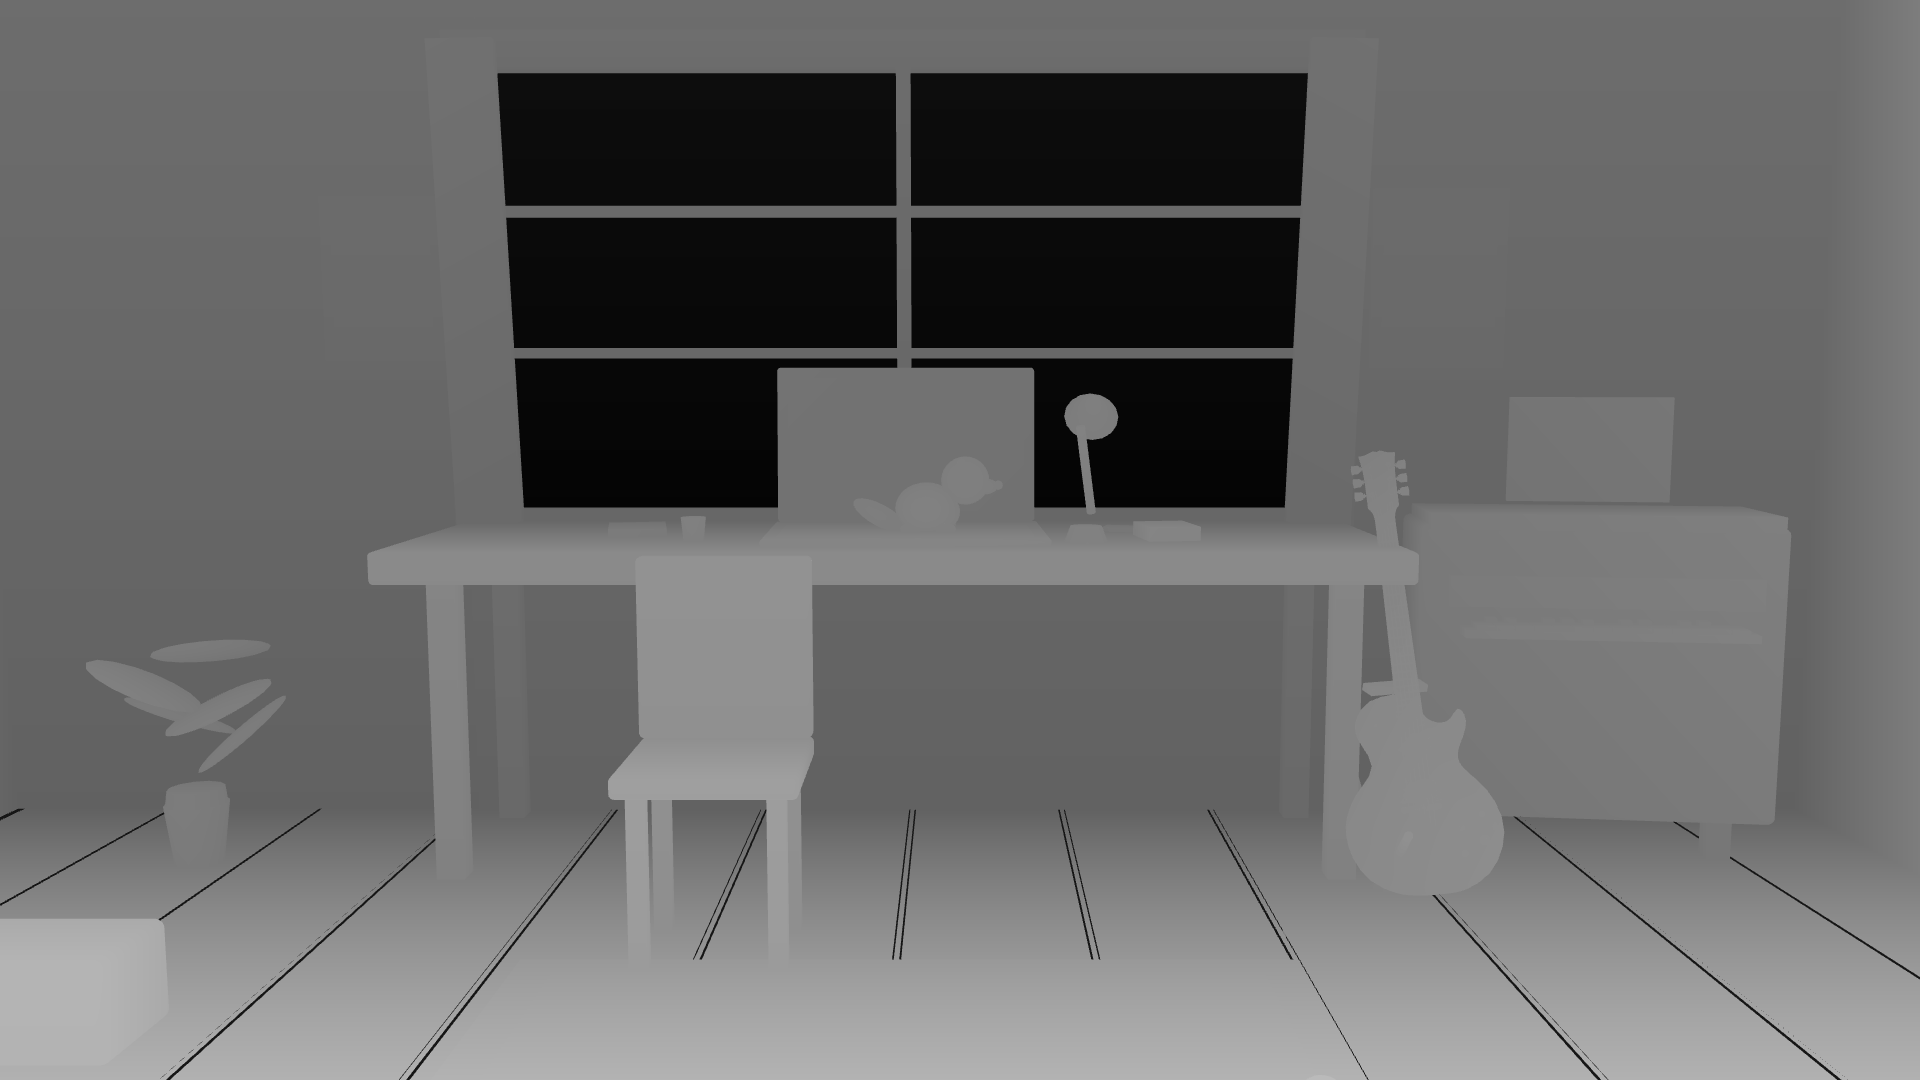
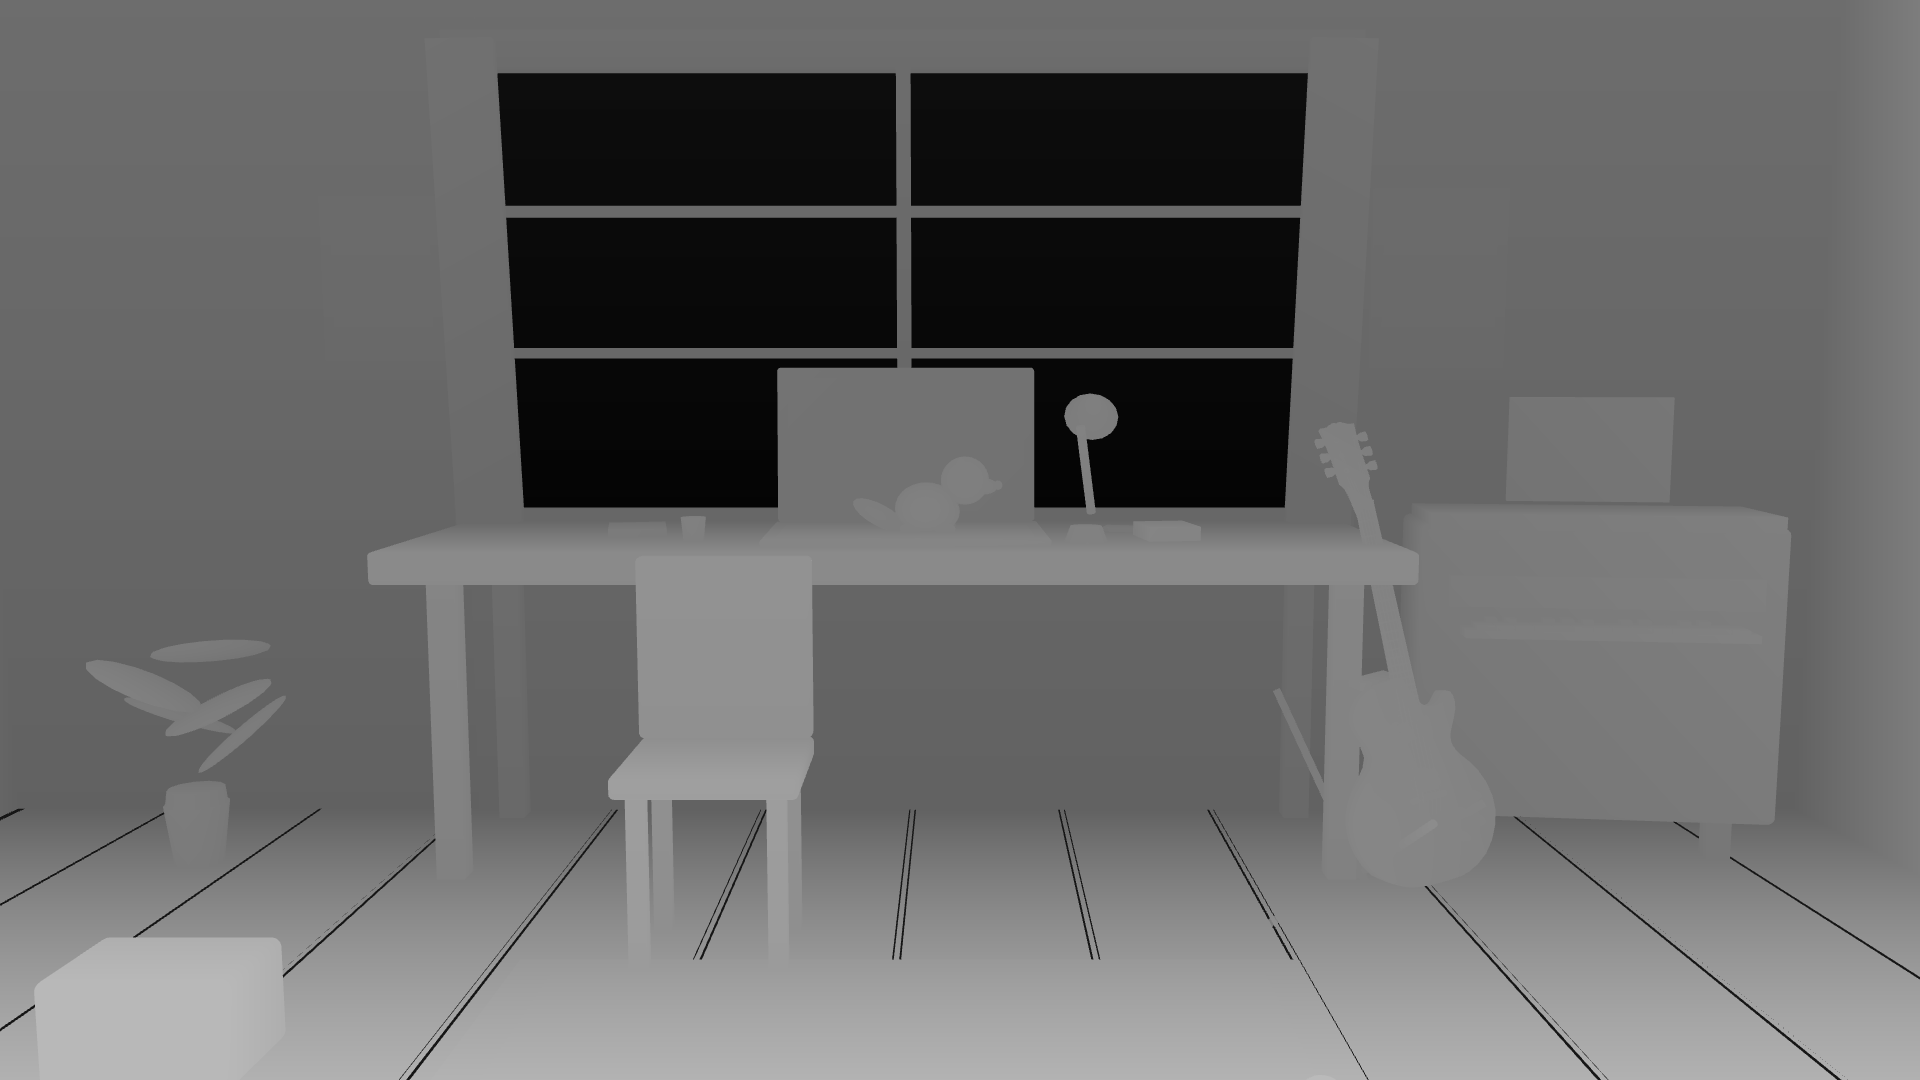
Recadre la Les Paul en 3/4 et corrige les hotspots
La guitare est tournée pour montrer le volume, le coffre rentre
dans le cadre, et le clic laptop n'est plus mangé par la loutre.

diff --git a/src/den/hotspots.js b/src/den/hotspots.js
@@ -1,29 +1,29 @@
 export const HOTSPOTS = [
   { id: 'window', hint: 'window', x: 0.29, y: 0.12, w: 0.36, h: 0.3, zoom: 0.42 },
   { id: 'diploma', hint: 'diploma', panel: 'education', x: 0.162, y: 0.18, w: 0.075, h: 0.15, zoom: 0.55 },
-  { id: 'laptop', hint: 'desk', panel: 'projects', x: 0.386, y: 0.325, w: 0.17, h: 0.19, zoom: 0.72 },
+  { id: 'otter', hint: 'otter', x: 0.447, y: 0.45, w: 0.04, h: 0.055, zoom: 0.3 },
+  { id: 'laptop', hint: 'desk', panel: 'projects', x: 0.396, y: 0.366, w: 0.15, h: 0.11, zoom: 0.72 },
   { id: 'guitar', hint: 'guitar', href: 'https://samuelogulluk.github.io/lutra/', x: 0.67, y: 0.34, w: 0.11, h: 0.44, zoom: 0.48 },
   { id: 'piano', hint: 'piano', href: 'https://samuelogulluk.github.io/lutra/', x: 0.755, y: 0.37, w: 0.14, h: 0.4, zoom: 0.45 },
   { id: 'about', hint: 'about', panel: 'about', x: 0.338, y: 0.46, w: 0.045, h: 0.055, zoom: 0.4 },
   { id: 'kit', hint: 'kit', panel: 'skills', x: 0.307, y: 0.468, w: 0.05, h: 0.045, zoom: 0.4 },
   { id: 'mail', hint: 'mail', panel: 'contact', x: 0.565, y: 0.47, w: 0.04, h: 0.04, zoom: 0.4 },
   { id: 'lab', hint: 'lab', panel: 'experience', x: 0.582, y: 0.466, w: 0.05, h: 0.05, zoom: 0.4 },
-  { id: 'tools', hint: 'tools', utility: true, x: 0.0, y: 0.78, w: 0.08, h: 0.12, zoom: 0.35 },
-  { id: 'otter', hint: 'otter', x: 0.44, y: 0.36, w: 0.08, h: 0.1, zoom: 0.3 },
+  { id: 'tools', hint: 'tools', utility: true, x: 0.05, y: 0.84, w: 0.07, h: 0.09, zoom: 0.35 },
 ];
 
 const SIZES = {
   window: [0.36, 0.3],
   diploma: [0.075, 0.15],
-  laptop: [0.17, 0.19],
-  guitar: [0.11, 0.44],
+  laptop: [0.15, 0.11],
+  guitar: [0.13, 0.4],
   piano: [0.14, 0.4],
   about: [0.045, 0.055],
   kit: [0.05, 0.045],
   mail: [0.04, 0.04],
   lab: [0.05, 0.05],
-  tools: [0.08, 0.1],
-  otter: [0.08, 0.1],
+  tools: [0.07, 0.09],
+  otter: [0.04, 0.055],
 };
 
 export function applyBakeSpots(spots) {

diff --git a/src/den/DenScene.tsx b/src/den/DenScene.tsx
@@ -484,16 +484,16 @@ const DenScene = ({ focus, setFocus, setHint, setPanel, onViewChange, bake }) =>
           window.open(LUTRA, '_blank', 'noopener,noreferrer');
         }}
       >
-        <group position={[1.22, 0, WALL + 0.78]} rotation={[0, 0.34, 0]}>
+        <group position={[1.18, 0, WALL + 0.7]} rotation={[0, 0.78, 0]}>
           <GuitarStand />
-          <Guitar position={[0, 0.58, 0.05]} rotation={[-0.26, 0.04, 0]} />
+          <Guitar position={[0.02, 0.6, 0.06]} rotation={[-0.2, 0.12, 0.04]} />
         </group>
       </Hotspot>
 
       <Plant position={[-1.85, 0, WALL + 0.55]} />
 
       <Hotspot hint={t.den.tools} onOver={hint} onOut={clear} onClick={() => onViewChange('utility')}>
-        <group position={[-1.55, 0.14, 0.25]}>
+        <group position={[-1.28, 0.14, 0.35]}>
           <RoundedBox args={[0.34, 0.2, 0.24]} radius={0.02} castShadow>
             <meshStandardMaterial color="#6b4428" roughness={0.55} />
           </RoundedBox>

diff --git a/src/den/BakeCapture.tsx b/src/den/BakeCapture.tsx
@@ -26,14 +26,14 @@ const ANCHORS = {
   window: [0, 1.52, -1.44],
   diploma: [-1.48, 1.55, -1.44],
   laptop: [0.02, 1.08, -0.9],
-  guitar: [1.22, 0.72, -0.72],
+  guitar: [1.18, 0.7, -0.8],
   piano: [1.85, 0.62, -1.12],
   about: [-0.52, 0.89, -0.9],
   kit: [-0.7, 0.87, -1.08],
   mail: [0.6, 0.87, -1.1],
   lab: [0.68, 0.89, -0.85],
-  tools: [-1.55, 0.24, 0.25],
-  otter: [-0.2, 0.98, -0.95],
+  tools: [-1.28, 0.24, 0.35],
+  otter: [0.0, 0.92, -0.92],
 };
 
 const toDataUrl = (canvas) => canvas.toDataURL('image/png');

diff --git a/index.html b/index.html
@@ -5,6 +5,7 @@
     <meta name="viewport" content="width=device-width, initial-scale=1, viewport-fit=cover" />
     <meta name="description" content="Samuel Ogulluk — aspiring researcher in electrical engineering, computer science and applied mathematics." />
     <meta name="theme-color" content="#161326" />
+    <link rel="icon" href="data:," />
     <title>Samuel Ogulluk</title>
     <link rel="preconnect" href="https://fonts.googleapis.com" />
     <link rel="preconnect" href="https://fonts.gstatic.com" crossorigin />

diff --git a/src/den/DenInstruments.tsx b/src/den/DenInstruments.tsx
@@ -37,7 +37,7 @@ export const Guitar = (props) => {
     const size = box.getSize(new THREE.Vector3());
     const wrap = new THREE.Group();
     wrap.add(src);
-    wrap.scale.setScalar(1.1 / Math.max(size.y, 0.01));
+    wrap.scale.setScalar(1.18 / Math.max(size.y, 0.01));
     return wrap;
   }, [scene, bodyTex, detailTex]);
   return <primitive object={root} {...props} />;
